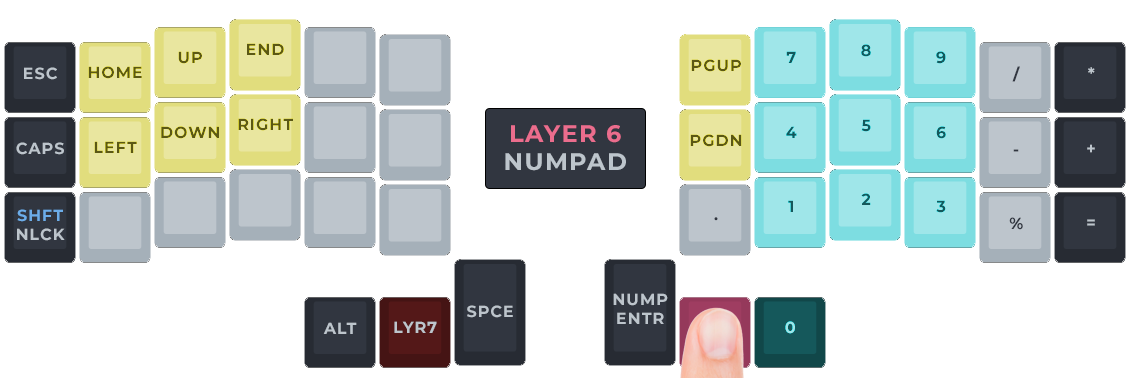
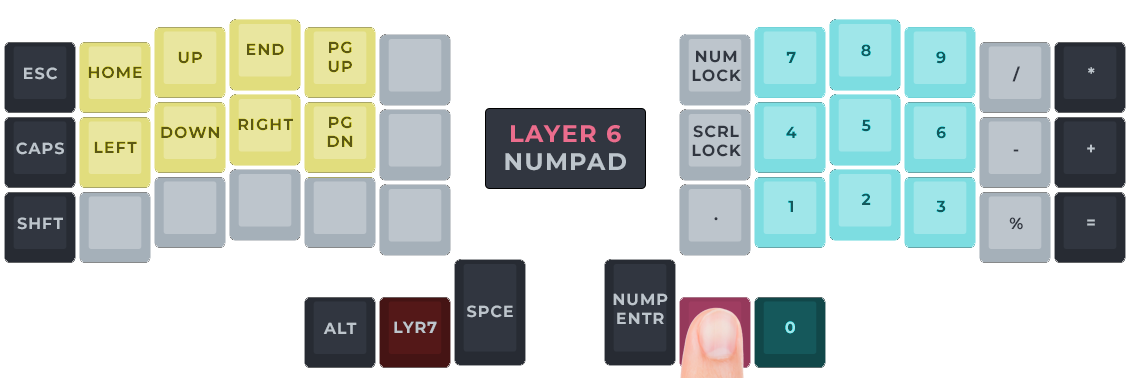
Reorganized some keys

Changed region(s): [[0.5885, 0.0873, 0.6814, 0.4947], [0.2478, 0.0582, 0.3407, 0.4656], [0.0, 0.5529, 0.0619, 0.6402]]

diff --git a/README.md b/README.md
@@ -8,8 +8,6 @@ This is a bluetooth-enabled [ZMK firmware](https://zmk.dev/) configuration for:
 ## Layers
 Layer 0 is the default layer, `COLE-DH`. This is a ColemakDH layout.
 
-*Note: Actions in blue text indicate that you must hold the key down for it to activate.*
-
 ![Layer 0](/visual/LAYER0.png)
 ![Layer 5](/visual/LAYER5.png)
 ![Layer 6](/visual/LAYER6.png)
